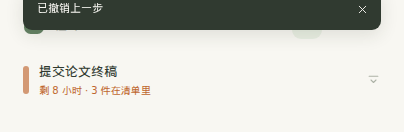
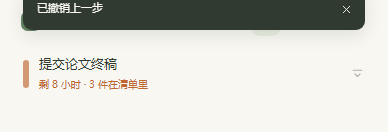
release: Qingdan 1.1.0 — daily routines and a quieter desktop
Publish the tested Windows portable update with daily, weekday and weekly reminders; a top persistent reminder shelf; automatic edge tucking; and a temporary hide. Include actual Windows screenshots, bilingual usage and upgrade guidance, and Windows/Linux integration reports.

diff --git a/VALIDATION.md b/VALIDATION.md
@@ -1,33 +1,52 @@
-# 轻单 1.0 验证记录
+# 轻单 1.1 验证记录 / Verification
 
-日期：2026-09-27（北京时间）。
+日期 / Date：2026-09-30。应用 / App：1.1.0，Electron 44.4.5。
 
-## 核心逻辑：17 项通过
+## 核心逻辑 / Core logic — 29 项通过
 
-运行 `node --test tests/core.test.js`，覆盖 DDL 各阈值边界、自定义阈值、长期提醒 / 已完成排除、时间文本、增删改与恢复、切换提醒类型、非法输入与备份版本校验、设置校验、分组与搜索、提醒去重、中文多行数据保存、主文件损坏恢复、缺失主文件恢复、双文件异常时保留数据、原子替换失败时保留原文件，以及恢复前快照。
+本地及 GitHub Actions 的 Windows、Linux 中运行核心测试。覆盖：
 
-## 真实 Electron 窗口：17 项通过
+- DDL 的准确阈值、预警颜色、自定义范围与剩余时间。
+- 增删改、完成 / 恢复、查询、类型转换、非法输入和设置白名单。
+- 日循环、工作日跳过周末、周循环、提前完成、错过多期的更新、提醒时刻与每期去重。
+- 跨月及夏令时的本机日历运算；1.0 数据、备注、完成状态与外观设置的兼容。
+- 负坐标副屏、贴边尺寸、显示器移除后的可达窗口位置。
+- 中文多行 JSON、原子写入失败保留、损坏文件恢复、异常数据保留和快照。
 
-实际启动 Electron 44.4.5 的原生窗口，在 Linux + Xvfb 中通过 Playwright 操作界面及真实 IPC。无渲染进程 JavaScript 错误。
+The 29 checks cover deadlines, state transitions, recurring calendars, once-per-occurrence reminders, legacy data, edge geometry, atomic saves and recovery.
 
-已检查：空清单启动、中文回车添加、输入法组合事件保护、DDL / 备注 / 重要标记编辑、长期提醒归档与恢复、完成与撤销、编辑 / 删除 / 撤销、备注搜索、类似 HTML 的用户文本保持纯文本、主题与阈值保存、原生窗口置顶状态、折叠与展开尺寸恢复、真正退出后重启恢复数据、导出 / 确认导入 / 撤销、隐藏及关闭后应用仍存活、三种预警状态显示，以及 340×420 最小窗口与长中文标题布局。
+## 原生 Electron 窗口 / Native Electron — 每个平台 23 项通过
 
-备份测试使用实际读写和 IPC，测试中预设原生文件对话框的选择结果；不把对话框自动化与 Windows 真机点击等同。输入法测试合成了 composition 事件，尚未覆盖所有 Windows 输入法。
+[验证运行](https://github.com/KennyMcSimpson/qingdan/actions/runs/36710181986)：Windows runner（Windows Server 2025）和 Ubuntu + Xvfb 分别启动实际 Electron，使用真实 IPC 和临时测试数据；两边均无 renderer JavaScript 错误。
 
-## 外观检查
+原始结果：[Windows](docs/validation/windows-1.1.0.json) · [Linux](docs/validation/linux-1.1.0.json)。
 
-已截图检查暖纸、夜色、编辑页、设置页、小条、空清单及最小窗口。各处无横向溢出；小尺寸编辑页的内容区域可滚动，保存按钮固定可见。
+覆盖空清单、中文回车 / 输入法组合事件保护、DDL 与备注、常驻归档、完成 / 撤销、删除 / 恢复、文本搜索、HTML 形状文本保持纯文本、主题保存、原生置顶、折叠尺寸、退出重启、导出 / 确认导入 / 撤销、隐藏后可唤回、DDL 颜色、循环编辑 / 完成本次 / 撤销、顶部常驻区、原生 46×164 贴边窗口与展开恢复、失焦自动收起与编辑保护、短时隐藏与提前唤回，以及 340×420 最小布局。
 
-## Windows 打包检查
+The same 23 interactions pass on both runners with real windows and IPC. Reports list each check. Native focus changes exercise automatic tucking; an open editor retains unsaved input. The minimum-size list keeps usable space and the editor's save button stays inside the window.
 
-基于官方 Windows x64 Electron 运行包；打包前对照官方发布的 `SHASUMS256.txt` 验证 SHA-256。Windows EXE 的图标、产品名称、版本资源已写入并重新解析检查。最终 ZIP 执行完整 CRC 检查，文件清单及逐文件 SHA-256 收录于 `SHA256-MANIFEST.json`。
+备份检查预设原生文件对话框的选择结果，随后执行真实文件读写、IPC 与确认流程。输入法检查合成 composition 事件。隐藏计时检查将测试时钟缩短，不等待 15 分钟。
 
-应用运行资源、源码、说明以及 Electron / Chromium 许可证均包含在包内。正式包不含测试数据，不依赖用户本地安装开发环境。
+Backup checks stub file selections, then exercise actual file I/O and IPC. IME checks synthesize composition events. The temporary-hide test shortens its timer.
 
-## 尚未实机验证的部分
+## 外观 / Visual inspection
 
-当前环境为 Linux，尚未在 Windows 10 / 11 真机启动，因此不能称作已经完成 Windows 全平台验收。Windows 开机启动注册、系统托盘通知、单实例唤回、全局快捷键冲突、中文输入法差异、多显示器与高 DPI 显示仍需在用户机器上确认。
+逐张检查 Windows 实际截图：暖纸、夜色、循环编辑器、顶部常驻区、贴边标签、小条与最小窗口。截图使用演示记录；正式包首次运行不预置任务。清单较长时滚动，常驻区保留在顶部；小窗口中压缩标题区、限制常驻区高度，避免挤没任务列表。
 
-Linux 容器中不支持单实例锁所需的 Unix 域套接字；测试模式仅跳过这一 Linux 锁。Windows 生产路径始终保留单实例检查。
+Actual Windows screenshots were inspected. Long lists scroll while the shelf stays above them. Small windows use a compact header and a bounded shelf.
 
-系统提醒依赖进程运行及 Windows 通知策略。完全退出或电脑关机时不会定时唤醒程序。应用没有代码签名和自动更新器。
+## Windows 打包 / Packaging
+
[1 lines of base64/hex data omitted]
+
+品牌 EXE 的图标、产品名称及 1.1.0 版本资源由构建脚本写入并重新解析；应用数据不在分发包内。运行环境、源码、说明和 Electron / Chromium 许可证保留。ZIP 执行完整 CRC 检查，逐文件哈希在包内 SHA256-MANIFEST.json，下载文件哈希随 Release 提供。
+
+The portable build verifies the official runtime checksum, brands the executable, retains licenses, runs a full ZIP CRC check, and emits file and archive checksums. End users do not need development tools.
+
+## 实际范围 / Remaining device checks
+
+Windows 自动化使用托管 Windows Server，不等同于所有 Windows 10 / 11 电脑上的验收。系统通知是否显示、开机启动注册、全局快捷键冲突、真实中文输入法、节假日需求、多显示器高 DPI 仍需具体设备反馈。
+
+Windows automation uses a hosted Server desktop. It does not establish acceptance on every Windows 10 / 11 device. Notification policies, startup, shortcuts, actual IMEs and multi-monitor DPI need device feedback.
+
+循环提醒依赖进程运行和本机时间；退出 / 关机后不唤醒。工作日仅为周一至周五。没有商业代码签名或自动更新器。Linux 测试模式仅跳过容器无法使用的单实例锁；Windows 生产路径始终启用单实例锁。

diff --git a/README.md b/README.md
@@ -5,6 +5,7 @@
   <a href="LICENSE"><img alt="MIT" src="https://img.shields.io/badge/license-MIT-648264?style=flat-square" /></a>
   <img alt="Offline" src="https://img.shields.io/badge/works-offline-638392?style=flat-square" />
   <img alt="Electron" src="https://img.shields.io/badge/Electron-44.4.5-638392?style=flat-square" />
+  <a href="https://github.com/KennyMcSimpson/qingdan/actions/workflows/desktop.yml"><img alt="Desktop checks" src="https://github.com/KennyMcSimpson/qingdan/actions/workflows/desktop.yml/badge.svg" /></a>
 </p>
 <p align="center">一个会主动让开工作区的 Windows 悬浮清单。<br />每天的小事按时提醒，常驻叮嘱留在顶部，DDL 临近时自己变色。</p>
 <p align="center"><a href="https://github.com/KennyMcSimpson/qingdan/releases/latest"><strong>下载 Windows 便携版</strong></a> &nbsp; · &nbsp; <a href="docs/guide.zh-CN.md">完整使用说明</a> &nbsp; · &nbsp; <a href="https://github.com/KennyMcSimpson/qingdan/issues">反馈问题</a></p>
@@ -45,6 +46,8 @@
 
 到指定时间提醒一次；点完成只完成本次，会保留完成记录并排好下一次。到了新周期，即使上一期没点完成也会自动更新，错过的不会堆积。工作日指周一到周五，不含法定节假日规则。常驻提醒适合一直展示的叮嘱，循环适合需要定时做的事情。
 
+<p align="center"><img src="docs/images/recurring-editor.png" width="340" alt="循环编辑器：每天、首次日期、提醒时刻与下一次预览" /></p>
+
 ### 截止时间，会自己变色
 
 | 状态 | 默认范围 | 显示 |
@@ -63,7 +66,7 @@
 
 顶部贴边按钮可以立即收起；底部月亮按钮会隐藏 **15 分钟**，到时只恢复侧边标签。期间可随时通过托盘或快捷键唤回。
 
-<p align="center"><img src="docs/images/compact.png" width="404" alt="小条模式，保留最近 DDL 和预警色" /></p>
+<p align="center"><img src="docs/images/edge.png" width="46" alt="贴边标签" /> &nbsp; <img src="docs/images/compact.png" width="388" alt="小条模式，保留最近 DDL 和预警色" /></p>
 
 如果想持续看到最近的事项，还可以收成小条，保留最近 DDL 及预警色，点一下展开。常驻提醒不会随时间消失，需要手动归档。
 
@@ -100,7 +103,7 @@ npm start
 
 ## 验证与版本
 
-核心测试覆盖循环日期、提醒去重、旧数据兼容、窗口几何和数据恢复；GitHub Actions 在 Windows 与 Linux 中运行真实 Electron 操作检查，并构建 Windows 便携包。详细结果和范围见 [VALIDATION.md](VALIDATION.md)。
+**29 项核心测试、Windows / Linux 各 23 项真实 Electron 操作检查通过。** 覆盖循环日期、提醒去重、旧数据兼容、窗口几何和数据恢复；GitHub Actions 校验官方运行包并构建 Windows 便携版。详细结果和范围见 [VALIDATION.md](VALIDATION.md)。
 
 自动化检查不能代替所有 Windows 设备上的使用反馈，托盘通知策略、开机启动、中文输入法和多显示器 DPI 仍需本机确认。本版本没有商业代码签名或自动更新器。
 

diff --git a/REFERENCES.md b/REFERENCES.md
@@ -6,7 +6,7 @@
 - [Dayboard](https://github.com/FlameFront-end/dayboard)：小型桌面任务板和本地保存。
 - [Desktop Tasks Widget](https://github.com/tanxestudio/Windows-desktop-Tasks-Widget)：桌面窗口、优先级、截止日期与托盘设置。
 
-官方技术资料：
+1.1 交互参考：
 
 1.1 的日常使用改进还参考了以下官方产品说明，只借鉴交互，不复制代码或视觉资源：
 
@@ -14,6 +14,8 @@
 - [TickTick for Windows](https://www.ticktick.com/windows)：桌面便签与小窗。轻单采用顶部常驻区和可点击的贴边标签。
 
 The 1.1 update draws interaction ideas from Todoist's recurring dates and TickTick's desktop sticky notes / mini window. The schedules, shelf, and edge-tab behavior are independently implemented; no product code or artwork is copied.
+
+官方技术资料：
 
 - [Electron BrowserWindow](https://www.electronjs.org/docs/latest/api/browser-window)
 - [Electron security](https://www.electronjs.org/docs/latest/tutorial/security)
